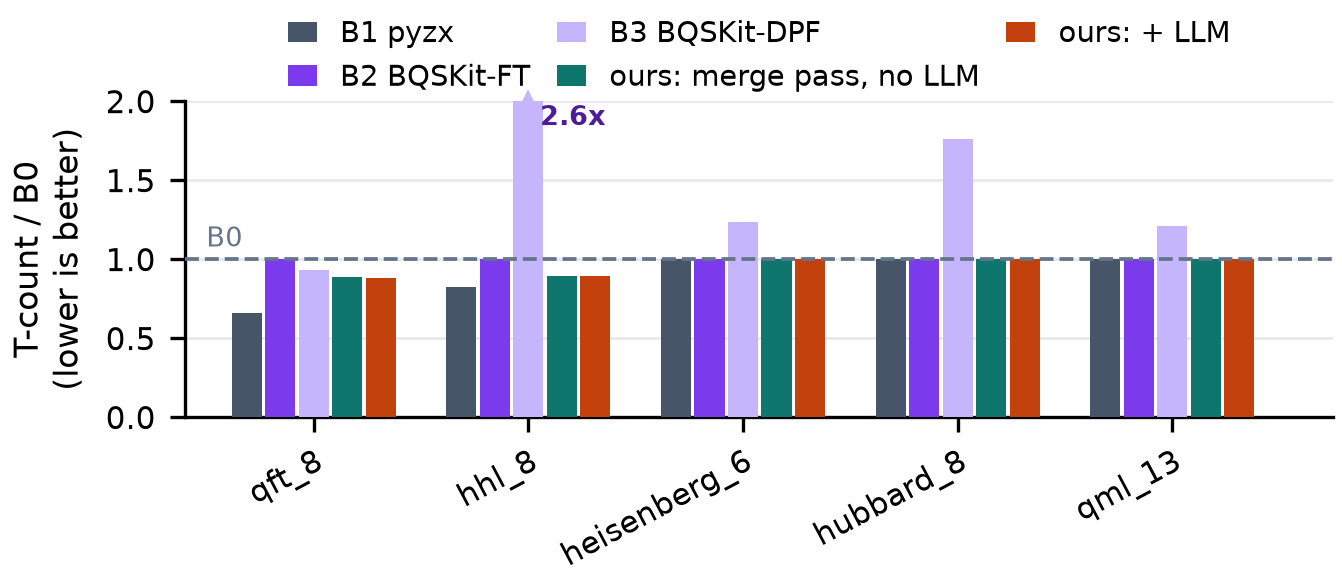
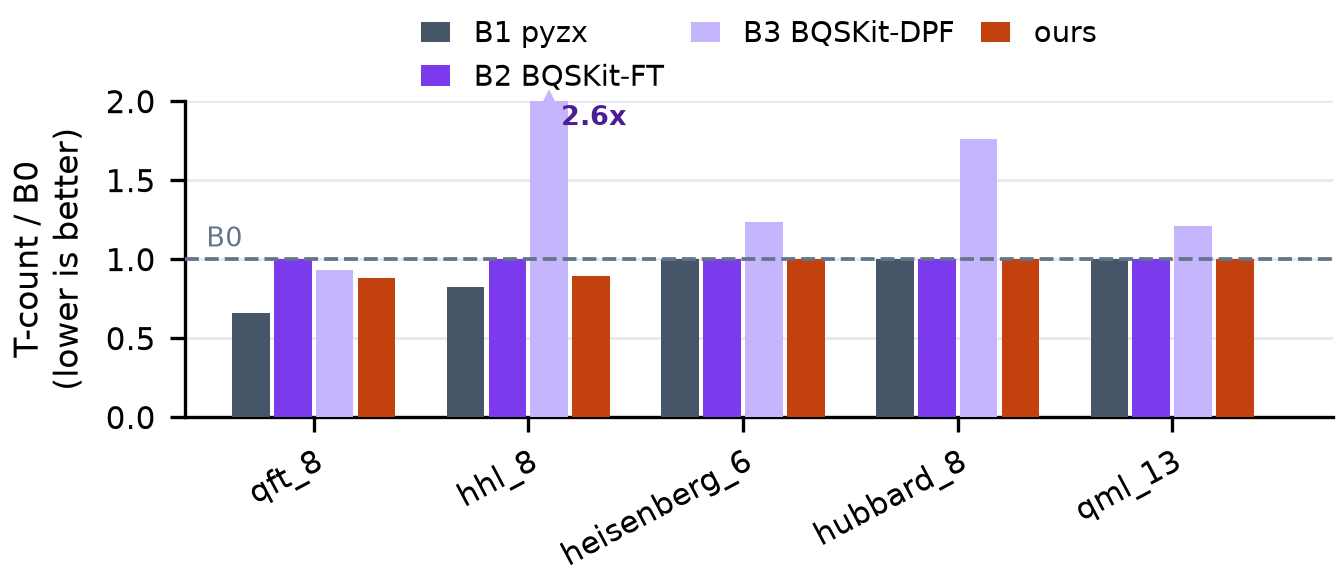
deck: drop the planner (recon) and merge-pass (angle) bars per user request, keep deltas labeled against the remaining comparator; bullets updated to match

diff --git a/results/engine/meeting_2026-10-20/deck/make_deck_figs.py b/results/engine/meeting_2026-10-20/deck/make_deck_figs.py
@@ -40,9 +40,11 @@ dev = ["qft_8", "hhl_8", "heisenberg_6", "hubbard_8", "qml_13"]
 a = ang.set_index("circuit").loc[dev].reset_index()
 rat = lambda col: [r[col] / r.B0_tket if not pd.isna(r[col]) else np.nan for _, r in a.iterrows()]
 fig, ax = plt.subplots(figsize=(W, H)); fig.subplots_adjust(left=0.125, right=0.995, top=0.84, bottom=0.3)
+# "merge pass, no LLM" (the deterministic G1 pass) removed from the chart per user request;
+# "ours" is now the single LLM-loop bar (which runs on top of that pass, per the pipeline slide).
 grouped(ax, dev, [("B1 pyzx", rat("B1_pyzx"), CB1), ("B2 BQSKit-FT", rat("B2_bqskit_ft"), CB2),
                   ("B3 BQSKit-DPF", rat("B3_bqskit_dpf_published"), CB3),
-                  ("ours: merge pass, no LLM", rat("G1_pass"), CDET), ("ours: + LLM", rat("llm_arm_A"), CLLM)],
+                  ("ours", rat("llm_arm_A"), CLLM)],
         ymax=2.0)
 ax.set_ylabel(YL); ax.set_yticks([0, 0.5, 1.0, 1.5, 2.0])
 ax.text(-0.5, 1.04, "B0", fontsize=6.5, color="#64748B", va="bottom")
@@ -52,20 +54,22 @@ save(fig, "fig_angle.png")
 
 # ---------- B. Toffoli circuits: reconstruction applies; no BQSKit arms computed here
 def recon_fig(names, name):
+    # "planner, no LLM" (the deterministic control route) removed from the chart per user request;
+    # the comparison here is now B1 pyzx (generic, no Toffoli-structure awareness) vs our LLM loop.
     d = rec.set_index("circuit").loc[names].reset_index()
     r_ = lambda col: [x[col] / x.B0_tket for _, x in d.iterrows()]
     fig, ax = plt.subplots(figsize=(W, H)); fig.subplots_adjust(left=0.125, right=0.995, top=0.86, bottom=0.3)
-    xs, bw = grouped(ax, names, [("B1 pyzx", r_("B1_pyzx"), CB1), ("planner, no LLM", r_("control_relaxed"), CPLAN),
+    xs, bw = grouped(ax, names, [("B1 pyzx", r_("B1_pyzx"), CB1),
                                  ("ours: LLM reconstruction", r_("llm_relaxed"), CLLM)], ymax=1.25)
-    v = np.array(r_("llm_relaxed"))
-    for j, (_, x) in enumerate(d.iterrows()):
-        dT = int(x.llm_relaxed - x.control_relaxed)
-        if dT < 0:
+    v = np.array(r_("llm_relaxed")); p = np.array(r_("B1_pyzx"))
+    for j in range(len(d)):
+        if v[j] < p[j]:
+            dT = int(d.llm_relaxed.iloc[j] - d.B1_pyzx.iloc[j])
             ax.text(xs[j] + bw, v[j] + 0.03, f"\u2212{abs(dT)} T", ha="center", va="bottom", fontsize=6.5,
                     color=CLLM, fontweight="bold")
     ax.set_ylabel(YL); ax.set_yticks([0, 0.25, 0.5, 0.75, 1.0])
     ax.text(-0.5, 1.03, "B0", fontsize=6.5, color="#64748B", va="bottom")
-    ax.legend(frameon=False, ncol=3, loc="lower center", bbox_to_anchor=(0.5, 0.99), handlelength=1.0,
+    ax.legend(frameon=False, ncol=2, loc="lower center", bbox_to_anchor=(0.5, 0.99), handlelength=1.0,
               columnspacing=0.9, borderaxespad=0.0)
     save(fig, name)
 

diff --git a/results/engine/meeting_2026-10-20/deck/main.tex b/results/engine/meeting_2026-10-20/deck/main.tex
@@ -240,11 +240,11 @@ New rules enter as CANDIDATES and are shown to half the prompts; only measured T
 \includegraphics[width=0.96\textwidth]{circuitevolve_figs/fig_recon_trained.png}
 
 \begin{itemize}
-  \item Beats the deterministic planner on 2 of 5; ties at its floor on the rest
+  \item Beats pyzx on 5 of 5; largest gain on barenco\_tof\_5, $-24$ T
 \end{itemize}
 \vspace{-0.05cm}
 \raggedright\scriptsize
-Planner and ours use the relaxed contract (ancillas + measurement, every branch verified exactly); B0, B1 are exact. These circuits carry no continuous rotations, so gridsynth is a no-op.
+Ours uses the relaxed contract (ancillas + measurement, every branch verified exactly); B0, B1 are exact. These circuits carry no continuous rotations, so gridsynth is a no-op.
 
 \end{frame}
 
@@ -255,23 +255,23 @@ Planner and ours use the relaxed contract (ancillas + measurement, every branch 
 \includegraphics[width=0.96\textwidth]{circuitevolve_figs/fig_recon_frozen.png}
 
 \begin{itemize}
-  \item Playbook frozen, reflector off --- still beats the planner on 3 of these 5
+  \item Playbook frozen, reflector off --- beats pyzx on all 5, up to $-383$ T on mod\_adder\_1024
 \end{itemize}
 \vspace{-0.05cm}
 \raggedright\scriptsize
-Four further frozen circuits have no B0/B1 reference: ham15-med $-5\%$, gf2$^6$\_mult $0\%$, hwb6 $-7\%$, mod\_red\_21 $-21\%$ vs the planner.
+Four further frozen circuits have no B0/B1 reference: ham15-med $-5\%$, gf2$^6$\_mult $0\%$, hwb6 $-7\%$, mod\_red\_21 $-21\%$ vs the deterministic control route.
 
 \end{frame}
 
 
-\begin{frame}{Angle: the LLM adds almost nothing}
+\begin{frame}{Angle: our approach barely moves}
 
 \centering
 \includegraphics[width=0.96\textwidth]{circuitevolve_figs/fig_angle.png}
 
 \begin{itemize}
   \item B2 lands exactly on B0; B3 is worse than B0 on 4 of 5
-  \item Our gain is the \textbf{deterministic} merge pass --- the LLM adds $\leq 0.5\%$
+  \item Ours is close to B0 everywhere --- a deterministic merge pass does almost all of it, the LLM adds $\leq 0.5\%$ on top
 \end{itemize}
 \vspace{-0.05cm}
 \raggedright\scriptsize
